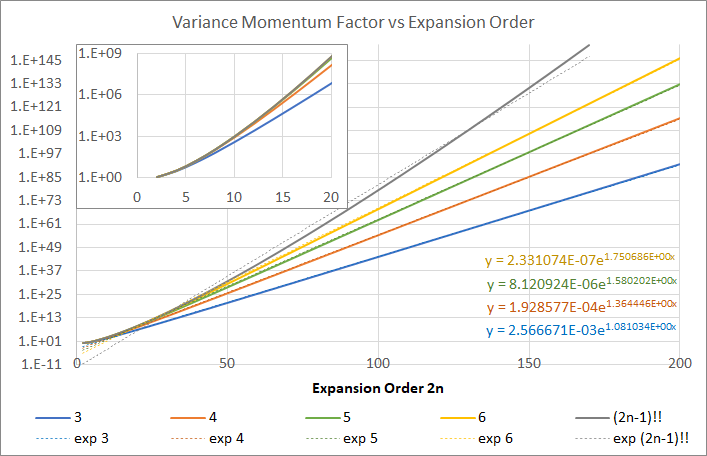
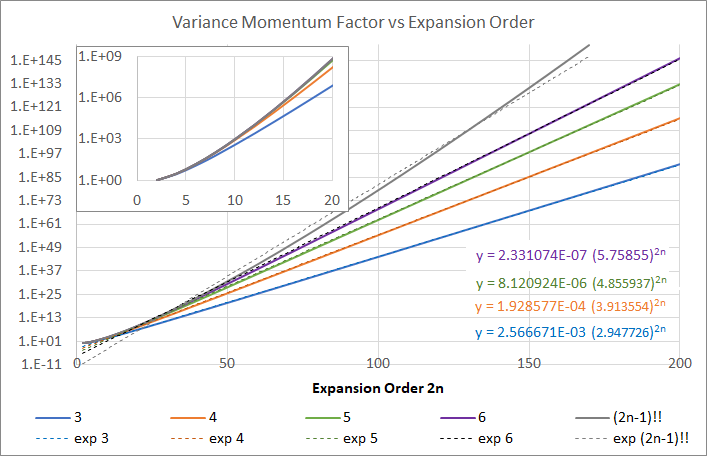
Finalize tex on Taylor expansion

diff --git a/Latex/VarianceArithmetic.tex b/Latex/VarianceArithmetic.tex
@@ -499,8 +499,10 @@ x =&\; S \; 2^{E};\\
 
 However, such round-up or round-down of $V$ conflicts with the accuracy of $R$ according to Formula \eqref{eqn: rounding error range vs deviation}.
 When $P_8$ is rounded up, Figure \ref{fig: Prec_RndByDev_Dist} shows that $P_{8/2}$ is much closer to $P_2$ than $P_4$, with the former follows the logic of variance arithmetic, while the latter follows the logic of interval arithmetic. 
-The precision scaling principle chooses to scarify $R$ in favor of $V$, thus introduces the probability for the actual value to be outside the range of $(x - R, x + R)$, e.g., which is $6\;10^{-4}$ When $P_{8/2}$ is replaced by $P_2$.
-When $V$ is maximized in its bit confinement in the \emph{normalization} process of the variance representation, such probability is virtually 0 according formula \eqref{eqn: rounding error range vs deviation}.
+The precision scaling principle chooses to scarify $R$ in favor of $V$.
+
+This choice of $V$ introduces the probability for the actual value to be outside the range of $(x - R, x + R)$, which is defined as the \emph{bounding leakage}, e.g., the bounding leakage is $6\;10^{-4}$ When $P_{8/2}$ is replaced by $P_2$.
+To reduce the representation bounding leakage to virtually 0, $V$ is maximized in its bit confinement in the \emph{normalization} process of the variance representation.
 
 
 
@@ -809,7 +811,7 @@ The difference between $\rho(\tilde{x})$ and $\varrho(\tilde{x})$ is calculated 
 The legend shows quantitatively how the distributions for $\sqrt{x \pm 1}$ become more and more Gaussian with the increasing $x$.
 
 Figure \ref{fig: Cubic_Root_Distribution} shows the probability density function for $\sqrt[3]{x \pm 1}$ according to Formula \eqref{eqn: power distribution}.
-Compared with $\sqrt{x \pm 1}$, $\sqrt[3]{x \pm 1}$ distributes on $\tilde{y} < 0$ also, so that the uncertainty distributions for $\sqrt[3]{0 \pm 1}$ which has two equal peaks..
+Compared with $\sqrt{x \pm 1}$, $\sqrt[3]{x \pm 1}$ distributes on $\tilde{y} < 0$ also, so that the uncertainty distributions for $\sqrt[3]{0 \pm 1}$ which has two equal peaks.
 Quantitatively, the uncertainty distributions for $\sqrt[3]{5 \pm 1}$ is as close to Gaussian as that of $\sqrt{3 \pm 1}$.
 
 Figure \ref{fig: Square_Distribution} shows the probability density function for $(x \pm 1)^2$ according to Formula \eqref{eqn: power distribution}.
@@ -898,7 +900,8 @@ P(e^x)^2 &= \sum_{n=1}^{\infty} (\delta x)^{2n} \zeta(2n) \sum_{j=1}^{2n-1} \fra
   + \sum_{j=2}^{\frac{n-1}{2}-1} (-1)^{n+j} \frac{\sin(x)^2}{(2j)!(2n-2j)!} \right)  \\
  &\simeq \cos(x)^2 (\delta x)^2 + (-2 \frac{3!!}{1!3!} \cos(x)^2 + \frac{3!!}{2!2!}\sin(x)^2 - \frac{1}{4}\sin(x)^2)(\delta x)^4 + \\
  &\eqspace (2 \frac{5!!}{1!5!} \cos(x)^2 - 2 \frac{5!!}{2!4!}\sin(x)^2 + \frac{5!!}{3!3!} \cos(x)^2 - \frac{1}{24}\sin(x)^2)(\delta x)^6 \\
- &\simeq \cos(x)^2 (\delta x)^2 + (\frac{1}{2}\sin(x)^2 - \cos(x)^2) (\delta x)^4 - (\frac{1}{3}\sin(x)^2 + \frac{1}{6} \cos(x)^2) (\delta x)^6;
+ &\simeq \cos(x)^2 (\delta x)^2 + (\frac{1}{2}\sin(x)^2 - \cos(x)^2) (\delta x)^4 + (-\frac{2}{3}\sin(x)^2 + \frac{13}{24} \cos(x)^2) (\delta x)^6 \\
+ &\simeq \cos(x)^2 (\delta x)^2 + \frac{1} {2}(1 - 3 \cos(x)^2) (\delta x)^4 - \frac{1}{24} (16 - 29 \cos(x)^2) (\delta x)^6;
 \end{align*}
 
 \begin{align*}
@@ -980,16 +983,20 @@ In Formula \eqref{eqn: Taylor 1d variance}, the variance $\delta^2 f(x)$ is deco
 \end{itemize} 
 
 The choice of the bounding factor $\sigma$ needs careful scrutiny.
+The limited range of $\tilde{x} \in (-\sigma \delta x, +\sigma \delta x)$ cause a bounding leakage $\epsilon$ according to Formula \eqref{eqn: bounding leakage}.
+When $\sigma = 5$, $\epsilon = 2 \times 10^{-7}$, which is small enough for most applications.
 If $\sigma = \infty$, $M(x, 2n) = (2n - 1)!!$, which may cause Formula \eqref{eqn: calc bias} and \eqref{eqn: Taylor 1d variance} to diverge in most cases.
 For the limited $x$, the behavior of $\lim_{\tilde{x} \rightarrow \infty} f(x + \tilde{x})$ is not of primary concern, so that $\sigma$ should be limited, and $M(x, 2n)$ is calculated by Formula \eqref{eqn: momentum even}, which contains a \emph{variance momentum factor} $\zeta(2n)$ defined in Formula \eqref{eqn: momentum factor}.
 $\zeta(2n)$ is normalized so that $\delta^2 x = (\delta x)^2$ for any choice of $\sigma$.
 \begin{align}
+\label{eqn: bounding leakage}
+\epsilon &= 2 - 2 \xi(\frac{1}{2} + \sigma); \\
 &\widehat{\zeta(2n)} = \int_{-\sigma}^{+\sigma} \tilde{z}^n N(\tilde{z}) d \tilde{z}
   = 2 N(\sigma) \sigma^{2n} \sum_{j=1}^{\infty} \sigma^{2j-1} \frac{(2n - 1)!!}{(2n-1 + 2j)!!}; \nonumber \\
 \label{eqn: momentum factor} 
 \zeta(2n) &\equiv \widehat{\zeta(2n)} / \widehat{\zeta(2)}; \\
 \label{eqn: momentum even} 
-M(x, 2n) &= (\delta x)^{2n} \zeta(2n); 
+M(x, 2n) &= (\delta x)^{2n} \zeta(2n);
 \end{align}
 Figure \ref{fig: Momentum_Factor_Bounding} shows that the variance momentum factor $\zeta(2n)$ approaches $(2n-1)!!$ with increasing Taylor expansion order $2n$, but for a larger $2n$, $\zeta(2n)$ reaches $(2n-1)!!$ at a larger $\sigma$. 
 When $\sigma^2 \gg 2n$, $\zeta(2n)$ increases with $2n$ as $(2n-1)!!$ which is faster than $\sigma^{2n}$.
@@ -997,7 +1004,8 @@ When $\sigma^2 \ll 2n$, before $\zeta(2n)$ reaches $(2n-1)!!$, $\zeta(2n)$ incre
 Thus it is possible to choose $\sigma$ so that $\zeta(2n) \sim \sigma^{2n}$ for $2n < 200$ which is the practical range for Taylor expansion.
 
 Figure \ref{fig: Momentum_Factor_Expansion} shows that when $3 \leq \sigma \leq 6$, $\zeta(2n) \sim \lambda^{2n}$ in which $\lambda$ is a fitting parameter.
-Table 1 contains the $\lambda$ for different $\sigma$, in which $\lambda$ is always slightly smaller than $\sigma$, as expected.
+It shows that $\lambda$ is always slightly smaller than $\sigma$, as expected.
+It also shows that when $5 \leq \sigma$, $M(\sigma, 2n) \simeq (2n-1)!!$ when $2n < 20$.
 
 \begin{figure}[p]
 \centering
@@ -1019,32 +1027,9 @@ The smaller diagram shows the starting portion of $\zeta(2n)$ vs $2n$ for differ
 \label{fig: Momentum_Factor_Expansion}
 \end{figure}
 
-The limited range of $\tilde{x}$ cause the bounding leakage $\epsilon = 2 - 2 \xi(\frac{1}{2} + \sigma)$.
-Table 1 shows $\epsilon$ vs $\sigma$.
-When $\sigma = 5$, $\epsilon = 2 \times 10^{-7}$, which is small enough for most applications.
+Thus, $\sigma = 5$ for variance arithmetic.
 
-Thus, $\sigma \leq 5$ for variance arithmetic.
-
-\begin{table}[h]
-\label{tab: bounding leakage}
-\centering
-\begin{tabular}{|l|c|c|c|c|} 
-\hline 
-$\sigma$ & 3 & 4 & 5 & 6 \\ 
-\hline 
-$\lambda$ & 2.947726 & 3.913554 & 4.855937 & 5.758552 \\ 
-\hline 
-%$1 / \lambda$ & 0.339245 & 0.255522 & 0.205933 & 0.173655 \\ 
-%\hline 
-%$\zeta(2)$ & 0.970709 & 0.998866 & 0.999985 & 1 \\ 
-%\hline 
-$\epsilon$ & $3 \times 10^{-3}$ & $6 \times 10^{-5}$ & $6 \times 10^{-7}$ & $2 \times 10^{-9}$ \\ 
-\hline 
-\end{tabular}
-\captionof{table}{The fitted $\lambda$ in $\zeta(2n) \sim \lambda^{2n}$, and the bounding leakage $\epsilon$ as a function of bound factor $\sigma$.}
-\end{table}
-
-Formula \eqref{eqn: exp bias} and \eqref{eqn: exp precision} give the result for $e^x$:
+Formula \eqref{eqn: exp bias} and \eqref{eqn: exp precision} give the result for $e^x$, which always converge:
 \begin{align}
 \label{eqn: exp Taylor}
 &\frac{e^{x + \tilde{x}} - e^x}{e^x} = e^{\tilde{x}} - 1 = \sum_{n=1}^{\infty} \frac{\tilde{x}^n}{n!}; \\
@@ -1055,9 +1040,8 @@ Formula \eqref{eqn: exp bias} and \eqref{eqn: exp precision} give the result for
 P(e^x)^2 &= \sum_{n=1}^{\infty} \zeta(2n) (\delta x)^{2n} \sum_{j=1}^{2n-1} \frac{1}{j!\;(2n - j)!} - \left( \frac{\widehat{e^x}}{e^x} \right)^2 \\
  &\simeq (\delta x)^2 + \frac{3}{2} (\delta x)^4 + \frac{7}{6} (\delta x)^6 + \frac{5}{8} (\delta x)^8;
 \end{align}
-Formula \eqref{eqn: exp precision} always converges.
 
-Formula \eqref{eqn: sin bias} and \eqref{eqn: sin precision} give the result for $\sin(x)$:
+Formula \eqref{eqn: sin bias} and \eqref{eqn: sin precision} give the result for $\sin(x)$, which converge when $\delta x < 1$:
 \begin{align}
 \label{eqn: sin Taylor}
 \sin(x + \tilde{x}) &= \sin(x) + \sum_{n=0}^{\infty} \cos(x) (-1)^n \frac{\tilde{x}^{2n+1}}{(2n + 1)!} + \sin(x) (-1)^{n+1} \frac{\tilde{x}^{2n+2}}{(2n + 2)!}; \\
@@ -1068,9 +1052,8 @@ Formula \eqref{eqn: sin bias} and \eqref{eqn: sin precision} give the result for
 \delta^2 \sin(x) &= - \widehat{\sin(x)}^2 + \sum_{n=1}^{\infty} (\delta x)^{2n} \zeta(2n) \nonumber \\
  &\eqspace \left( \sum_{j=1}^{\frac{n-1}{2}} (-1)^{n+j} \frac{\cos(x)^2}{(2j-1)!(2n-2j+1)!} 
   + \sum_{j=2}^{\frac{n-1}{2}-1} (-1)^{n+j} \frac{\sin(x)^2}{(2j)!(2n-2j)!} \right)  \\
- &\simeq \cos(x)^2 (\delta x)^2 + (\frac{1}{2}\sin(x)^2 - \cos(x)^2) (\delta x)^4 - (\frac{1}{3}\sin(x)^2 + \frac{1}{6} \cos(x)^2) (\delta x)^6;
+ &\simeq \cos(x)^2 (\delta x)^2 + \frac{1} {2}(1 - 3 \cos(x)^2) (\delta x)^4 - \frac{1}{24} (16 - 29 \cos(x)^2) (\delta x)^6;
 \end{align}
-Formula \eqref{eqn: sin precision} may diverge if $\delta x$ is too large.
 
 Formula \eqref{eqn: log bias} and \eqref{eqn: log precision} give the result for $\ln(x)$:
 \begin{align}
@@ -1111,17 +1094,14 @@ P(1/x)^2 &\simeq P(x)^2 + 8 P(x)^4 + 69 P(x)^6 + 696 P(x)^8;
 \end{align}
 
 If Formula \eqref{eqn: Taylor 1d variance} can be expressed as $\sum_{n=1}^{\infty} \upsilon(2n) \zeta(2n) P(x)^{2n}$, such as Formula \eqref{eqn: log precision} and \eqref{eqn: power precision}, and if $|\upsilon(2n)| \sim \lambda^{2n}$, then Formula \eqref{eqn: Taylor 1d variance} converges if $P(x) < 1/(\sigma + \lambda)$.
-$\upsilon(2n)$ depends on $f(x)$, and so does $\lambda$.
-From Formula \eqref{eqn: square root precision} and \eqref{eqn: inversion precision}, $\lambda$ is larger for $1/x$ than for $\sqrt{x}$.
-For each function, the maximal $P(x)$ for Formula \eqref{eqn: Taylor 1d variance} to be applicable is defined as \emph{applicable precision threshold}.
-When the applicable precision threshold is larger than $1/\sigma$, the integration range in Formula \eqref{eqn: variance momentum} needs to be reduced to $1/P(x)$. 
-Generally, $1/\sigma$ provides a rough estimation for the applicable precision threshold.
+$\lambda$ depends on $f(x)$, .e.g., it is larger for $1/x$ than for $\sqrt{x}$.
+The maximal $P(x)$ for Formula \eqref{eqn: Taylor 1d variance} in the $P(x)$-form to converge is defined as the \emph{applicable precision threshold}, which can be estimated as $1/\sigma$.
 
-For $x^c$, when $P(x)$ is more than the applicable precision threshold, the underlying uncertainty distribution deviates significantly from Gaussian, as show in Figure \ref{fig: Cubic_Distribution} for $x^3$ and Figure \ref{fig: Cubic_Root_Distribution} for $\sqrt[3]{x}$.
+For $y = x^3$, when $P(x)$ is more than the applicable precision threshold, the infinitive peak at $\tilde{y} = 0$, as show in Figure \ref{fig: Cubic_Distribution}, makes Formula \eqref{eqn: power precision} diverges.
+On the other hand, for $y = \sqrt[3]{x}$, as show in Figure \ref{fig: Cubic_Root_Distribution}, the integration range in Formula \eqref{eqn: variance momentum} can be reduced to $1/P(x)$ for $\sqrt[3]{x \pm \delta x}$ when $1/\sigma < P(x)$ except for $\sqrt[3]{0 \pm \delta x}$.
+The reduction of the integration range in Formula \eqref{eqn: variance momentum} also means larger bounding leakage according to Formula \eqref{eqn: bounding leakage}.
 
 For $(x+a)^c$ in which $a$ is another constant, $P(x) = \delta x / |x - a|$ according to Formula \eqref{eqn: power bias} and \eqref{eqn: power precision}.
-
-Figure \ref{fig: Momentum_Factor_Expansion} shows that when $5 \leq \sigma$, $M(\sigma, 2n) \simeq (2n-1)!!$ when $2n < 20$, which means that if Formula \eqref{eqn: calc bias} and \eqref{eqn: Taylor 1d variance} converge, their results are not sensitive to the actual value of $\sigma$.
 
 The variance formula using Taylor expansion shows the nature of the calculation, such as $\delta x \rightarrow P(e^x)$, $\delta x \rightarrow \delta \sin(x)$, $P(x) \rightarrow P(x^c)$, and $P(x) \rightarrow \delta \ln(x)$, or the difference speed of variance increases of $x^c$ depending on different $c$.
 
